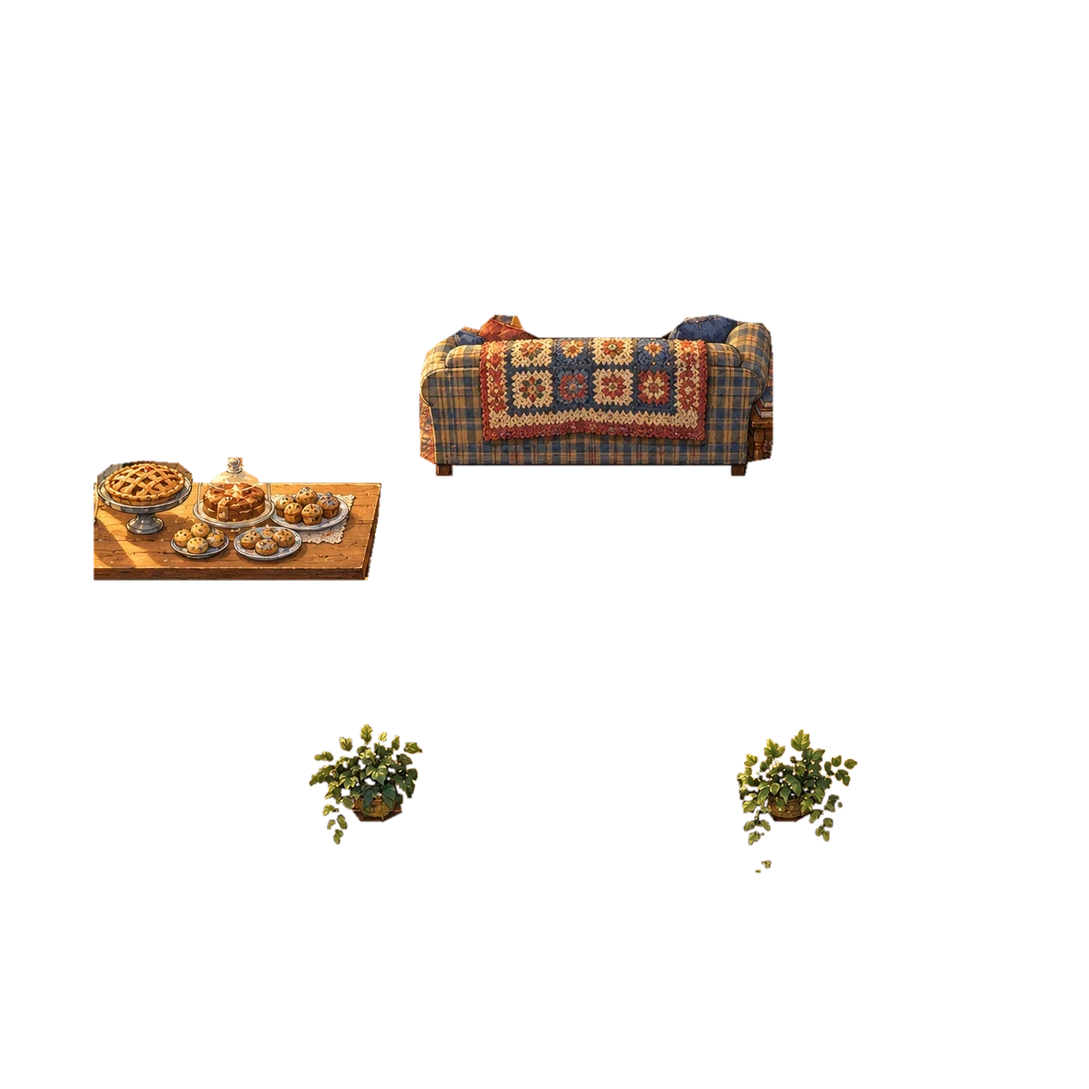
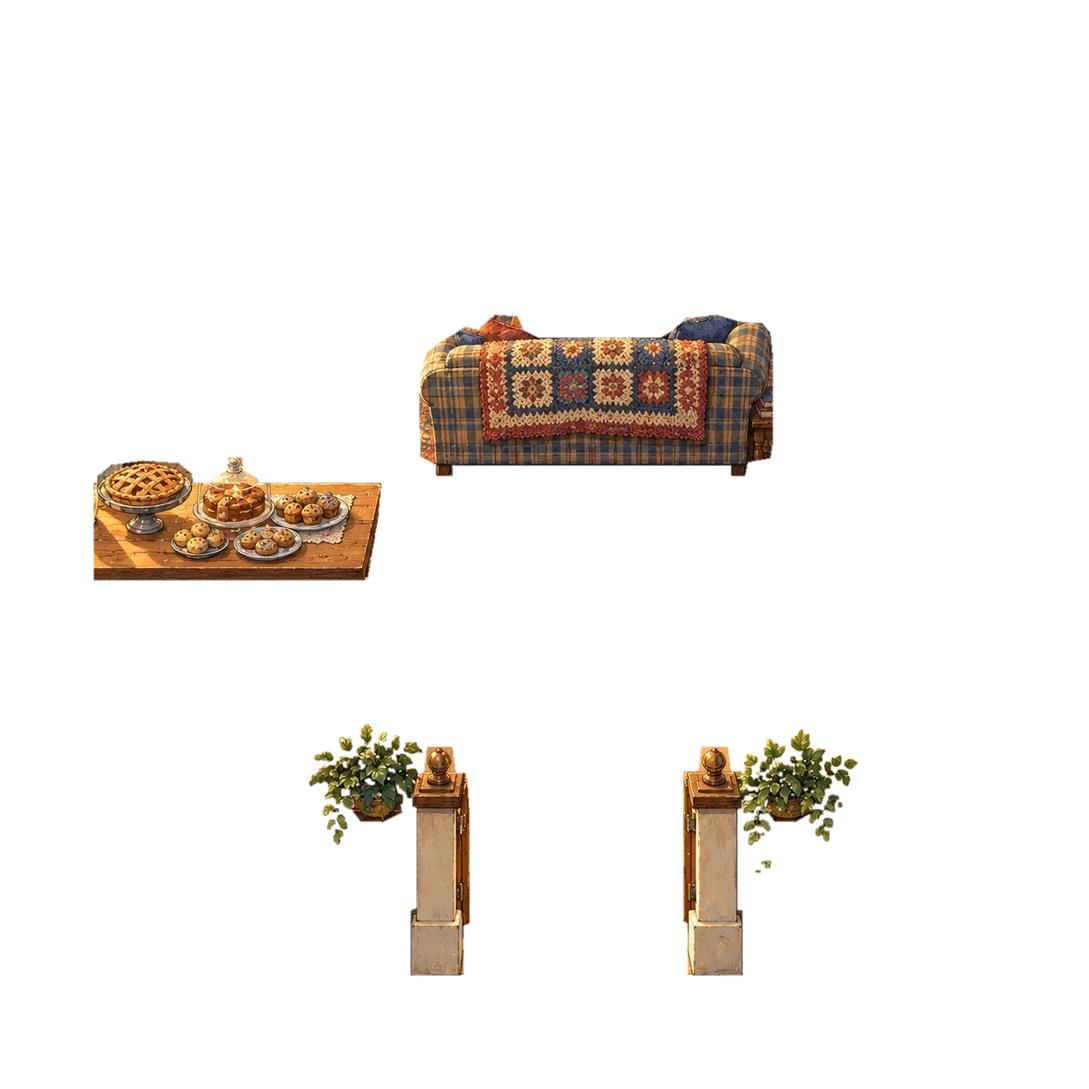
facing2: arrival facing, ch9 end staging, grands gate post cutouts
Claude-Session: https://claude.ai/code/session_01RXeukGfL8AvZy5RAvaWCo8

Changed region(s): [[0.622, 0.6842, 0.6842, 0.9019], [0.3732, 0.6842, 0.4354, 0.9019]]

diff --git a/engine/plate.js b/engine/plate.js
@@ -1,7 +1,7 @@
 'use strict';
 // engine/plate.js — Painted "plate" scenes (32-bit look). A plate replaces the tile/house/object
 // drawing for one map; the tile grid stays as the invisible logic layer (collision, doors, exits, NPCs).
-const PLATES={ town:{src:'art/town.webp?v=square6',fgSrc:'art/town-fg.webp?v=towncut1',px:64,img:null,ready:false}, row:{src:'art/row.webp?v=row4',fgSrc:'art/row-fg.webp?v=row4',px:64,img:null,ready:false}, hollow:{src:'art/hollow.webp?v=hollow5',fgSrc:'art/hollow-fg.webp?v=hollow5',px:64,img:null,ready:false}, reeds:{src:'art/reeds.webp',px:64,img:null,ready:false}, amyhouse:{src:'art/amyhouse.webp?v=20261030',px:78,img:null,ready:false,square:true,fgSrc:'art/amyhouse-fg.webp?v=amyhouse3d'}, grands:{src:'art/grands.webp?v=20261030',px:78,img:null,ready:false,square:true,fgSrc:'art/grands-fg.webp?v=grands3d'}, elliehouse:{src:'art/elliehouse.webp?v=20261030',px:78,img:null,ready:false,square:true}, sundial:{src:'art/sundial.webp',px:64,img:null,ready:false}, school:{src:'art/school.webp',px:64,img:null,ready:false}, cafetorium:{src:'art/cafetorium.webp',px:64,img:null,ready:false}, readroom:{src:'art/readroom.webp',px:64,img:null,ready:false}, stacks:{src:'art/stacks.webp',px:64,img:null,ready:false}, moonclub:{src:'art/moonclub.webp?v=moonclub1',fgSrc:'art/moonclub-fg.webp?v=moonclub1',px:64,img:null,ready:false}, dome:{src:'art/dome.webp?v=dome2',fgSrc:'art/dome-fg.webp?v=dome2',px:64,img:null,ready:false}, gatezero:{src:'art/gatezero.webp?v=airport1',fgSrc:'art/gatezero-fg.webp?v=airport1',px:64,img:null,ready:false}, library:{src:'art/library.webp?v=20261030',px:78,img:null,ready:false,square:true}, terminal:{src:'art/terminal.webp?v=airport1',fgSrc:'art/terminal-fg.webp?v=airport1',px:64,img:null,ready:false}, bakery:{src:'art/bakery.webp?v=20261030',px:78,img:null,ready:false,square:true}, greenhouse:{src:'art/greenhouse.webp?v=20261030',px:78,img:null,ready:false,square:true}, shop:{src:'art/shop.webp?v=20261030',px:78,img:null,ready:false,square:true}, observatory:{src:'art/observatory.webp?v=20261030',px:78,img:null,ready:false,square:true}, post:{src:'art/post.webp?v=20261030',px:78,img:null,ready:false,square:true}, tea:{src:'art/tea.webp?v=20261030',px:78,img:null,ready:false,square:true}, jpark:{src:'art/jpark.webp?v=jpark2',fgSrc:'art/jpark-fg.webp?v=jpark2',px:64,img:null,ready:false}, griffith:{src:'art/griffith.webp?v=griffith2',fgSrc:'art/griffith-fg.webp?v=griffith2',px:64,img:null,ready:false}, taxi:{src:'art/taxi.webp?v=20261030',px:78,img:null,ready:false,square:true}, blvd:{src:'art/blvd.webp?v=dtla12',fgSrc:'art/blvd-fg.webp?v=dtla12',px:64,img:null,ready:false} };
+const PLATES={ town:{src:'art/town.webp?v=square6',fgSrc:'art/town-fg.webp?v=towncut1',px:64,img:null,ready:false}, row:{src:'art/row.webp?v=row4',fgSrc:'art/row-fg.webp?v=row4',px:64,img:null,ready:false}, hollow:{src:'art/hollow.webp?v=hollow5',fgSrc:'art/hollow-fg.webp?v=hollow5',px:64,img:null,ready:false}, reeds:{src:'art/reeds.webp',px:64,img:null,ready:false}, amyhouse:{src:'art/amyhouse.webp?v=20261030',px:78,img:null,ready:false,square:true,fgSrc:'art/amyhouse-fg.webp?v=amyhouse3d'}, grands:{src:'art/grands.webp?v=20261030',px:78,img:null,ready:false,square:true,fgSrc:'art/grands-fg.webp?v=facing2'}, elliehouse:{src:'art/elliehouse.webp?v=20261030',px:78,img:null,ready:false,square:true}, sundial:{src:'art/sundial.webp',px:64,img:null,ready:false}, school:{src:'art/school.webp',px:64,img:null,ready:false}, cafetorium:{src:'art/cafetorium.webp',px:64,img:null,ready:false}, readroom:{src:'art/readroom.webp',px:64,img:null,ready:false}, stacks:{src:'art/stacks.webp',px:64,img:null,ready:false}, moonclub:{src:'art/moonclub.webp?v=moonclub1',fgSrc:'art/moonclub-fg.webp?v=moonclub1',px:64,img:null,ready:false}, dome:{src:'art/dome.webp?v=dome2',fgSrc:'art/dome-fg.webp?v=dome2',px:64,img:null,ready:false}, gatezero:{src:'art/gatezero.webp?v=airport1',fgSrc:'art/gatezero-fg.webp?v=airport1',px:64,img:null,ready:false}, library:{src:'art/library.webp?v=20261030',px:78,img:null,ready:false,square:true}, terminal:{src:'art/terminal.webp?v=airport1',fgSrc:'art/terminal-fg.webp?v=airport1',px:64,img:null,ready:false}, bakery:{src:'art/bakery.webp?v=20261030',px:78,img:null,ready:false,square:true}, greenhouse:{src:'art/greenhouse.webp?v=20261030',px:78,img:null,ready:false,square:true}, shop:{src:'art/shop.webp?v=20261030',px:78,img:null,ready:false,square:true}, observatory:{src:'art/observatory.webp?v=20261030',px:78,img:null,ready:false,square:true}, post:{src:'art/post.webp?v=20261030',px:78,img:null,ready:false,square:true}, tea:{src:'art/tea.webp?v=20261030',px:78,img:null,ready:false,square:true}, jpark:{src:'art/jpark.webp?v=jpark2',fgSrc:'art/jpark-fg.webp?v=jpark2',px:64,img:null,ready:false}, griffith:{src:'art/griffith.webp?v=griffith2',fgSrc:'art/griffith-fg.webp?v=griffith2',px:64,img:null,ready:false}, taxi:{src:'art/taxi.webp?v=20261030',px:78,img:null,ready:false,square:true}, blvd:{src:'art/blvd.webp?v=dtla12',fgSrc:'art/blvd-fg.webp?v=dtla12',px:64,img:null,ready:false} };
 PLATES.pier={src:'art/pier.webp?v=20261029',px:64,img:null,ready:false};
 PLATES.studio={src:'art/studio.webp?v=20261029',px:64,img:null,ready:false};
 PLATES.backlot={src:'art/backlot.webp?v=20261029',px:64,img:null,ready:false};
@@ -261,7 +261,7 @@ PLATE_BEHIND.amyhouse=[{x:606,y:224,w:310,h:58,base:280,fg:true},{x:703,y:364,w:
 // sofa with pillows and arms, and the two ivy plants on the half-wall. Counter top: the cook's aisle (row 7, feet 512) is under it, so its legs are hidden; row 6 (feet 448)
 // is behind the pie and the dome. Sofa: the aisle behind it (row 5, feet 384) and the sofa's north corner (10,4) are behind it, row 7 (feet 512) is in front. Ivies: row 10
 // (feet 704) runs behind them. Art px (64 per tile); rects are the cutout's bounding boxes.
-PLATE_BEHIND.grands=[{x:88,y:430,w:270,h:115,base:545,fg:true},{x:394,y:296,w:332,h:152,base:447,fg:true},{x:286,y:675,w:118,h:124,base:772,fg:true},{x:690,y:678,w:123,h:142,base:772,fg:true}];
+PLATE_BEHIND.grands=[{x:88,y:430,w:270,h:115,base:545,fg:true},{x:394,y:296,w:332,h:152,base:447,fg:true},{x:286,y:675,w:118,h:124,base:772,fg:true},{x:690,y:678,w:123,h:142,base:772,fg:true},{x:386,y:702,w:57,h:214,base:916,fg:true},{x:643,y:702,w:55,h:214,base:916,fg:true}];
 // Rivituso Row (tools/make_row_fg.py, `row4`): 34 pieces of the storybook painting (trees, lamps and arches and porch lanterns, roofs, props), each zone
 // clipped to its own piece outline (pts) so a zone never draws a neighbouring piece over the player.
 PLATE_BEHIND.row=[{pts:[[980,23],[985,28],[984,40],[999,43],[999,40],[1008,33],[1008,28],[1001,21],[1003,15],[1008,9],[1013,9],[1020,15],[1021,21],[1015,28],[1015,34],[1024,40],[1017,48],[1017,95],[1022,101],[1028,101],[1032,104],[1037,104],[1040,97],[1045,97],[1047,94],[1051,95],[1056,107],[1075,128],[1079,145],[1069,172],[1078,176],[1094,174],[1101,177],[1112,177],[1126,172],[1126,166],[1119,152],[1117,125],[1121,116],[1139,95],[1158,81],[1162,82],[1167,93],[1169,109],[1162,150],[1183,152],[1214,149],[1211,141],[1212,128],[1221,114],[1223,103],[1229,97],[1239,94],[1242,87],[1248,82],[1250,89],[1269,97],[1272,108],[1263,154],[1297,155],[1304,152],[1304,145],[1300,140],[1300,124],[1307,111],[1320,103],[1321,109],[1331,111],[1333,96],[1335,95],[1338,100],[1345,100],[1350,97],[1348,90],[1355,89],[1354,73],[1350,73],[1347,68],[1335,66],[1334,56],[1328,55],[1328,49],[1335,47],[1335,38],[1348,33],[1362,34],[1371,25],[1371,18],[1367,14],[1378,0],[990,0],[991,8],[983,14]],base:176,fg:true},{pts:[[9,268],[38,276],[53,274],[55,272],[61,276],[79,277],[83,273],[96,272],[96,265],[90,261],[83,249],[86,224],[93,210],[96,184],[120,158],[127,156],[135,158],[142,151],[144,154],[142,166],[147,169],[148,175],[154,175],[159,164],[171,166],[171,156],[177,150],[177,144],[169,141],[156,142],[155,135],[162,129],[176,127],[185,122],[195,124],[205,120],[219,102],[220,83],[225,76],[242,83],[265,83],[265,75],[267,73],[271,76],[287,76],[301,61],[307,48],[306,39],[300,33],[300,28],[293,25],[292,20],[280,20],[277,27],[264,27],[263,23],[271,23],[277,19],[278,13],[290,11],[291,4],[288,0],[0,0],[0,189],[6,190],[12,184],[25,190],[35,203],[38,212],[28,239],[20,256],[9,264]],base:276,fg:true},{pts:[[734,8],[729,15],[729,25],[736,32],[727,38],[727,45],[735,54],[735,141],[730,147],[730,151],[735,156],[735,223],[730,227],[733,237],[728,264],[722,270],[722,284],[750,286],[763,283],[763,272],[756,264],[749,196],[749,158],[754,151],[753,143],[757,135],[767,127],[779,122],[844,121],[980,122],[997,132],[1003,142],[1000,151],[1005,156],[1005,222],[1000,227],[1003,237],[1000,239],[998,264],[991,271],[991,283],[1000,284],[1017,264],[1019,254],[1024,250],[1021,237],[1024,229],[1019,223],[1019,156],[1022,152],[1022,144],[1019,141],[1019,52],[1026,43],[1026,36],[1019,32],[1024,25],[1022,12],[1017,7],[1005,7],[999,14],[999,25],[1005,32],[993,40],[977,28],[980,26],[978,16],[969,19],[964,13],[953,7],[938,8],[931,18],[931,28],[851,26],[825,29],[823,28],[825,19],[820,9],[802,7],[786,19],[782,16],[775,18],[774,27],[779,29],[773,35],[759,41],[749,32],[755,25],[754,12],[746,6]],base:285,fg:true},{pts:[[711,195],[688,184],[686,179],[658,162],[604,111],[604,57],[611,53],[611,40],[593,34],[593,29],[597,27],[596,18],[578,16],[573,19],[563,16],[553,20],[556,35],[544,38],[544,53],[550,55],[549,70],[539,61],[533,49],[533,34],[528,28],[519,29],[509,36],[487,41],[422,45],[349,33],[310,18],[303,25],[304,47],[285,76],[271,81],[245,81],[229,74],[222,74],[217,82],[217,98],[202,117],[183,128],[184,138],[186,142],[191,142],[192,147],[177,156],[172,165],[151,177],[148,184],[131,192],[123,193],[122,202],[131,216],[144,215],[148,223],[157,224],[162,232],[168,252],[168,285],[172,290],[172,311],[326,311],[321,265],[333,243],[348,226],[361,219],[375,219],[389,211],[475,210],[491,213],[495,220],[511,219],[531,231],[564,265],[565,288],[563,310],[582,311],[613,306],[675,302],[677,290],[672,286],[674,236],[689,213],[701,213],[711,200]],base:311,fg:true},{pts:[[1476,0],[1469,6],[1469,12],[1457,22],[1457,29],[1462,33],[1453,41],[1455,48],[1450,54],[1450,61],[1453,63],[1461,63],[1464,68],[1447,69],[1443,72],[1442,80],[1434,79],[1427,82],[1427,94],[1419,98],[1414,108],[1415,114],[1423,116],[1423,129],[1420,130],[1416,127],[1402,128],[1395,137],[1395,151],[1388,156],[1385,175],[1386,217],[1384,220],[1385,237],[1381,243],[1382,258],[1388,258],[1392,251],[1395,256],[1401,256],[1406,247],[1421,251],[1426,257],[1433,259],[1441,259],[1454,254],[1463,258],[1476,268],[1482,281],[1482,298],[1474,319],[1468,326],[1472,335],[1463,351],[1452,353],[1445,358],[1446,367],[1484,367],[1493,370],[1530,369],[1535,367],[1535,360],[1523,347],[1521,329],[1524,312],[1535,299],[1535,279],[1523,285],[1527,271],[1535,263],[1535,0]],base:369,fg:true},{pts:[[67,354],[68,380],[61,395],[61,409],[67,413],[67,431],[62,436],[62,453],[68,456],[72,471],[77,474],[86,472],[88,477],[106,478],[111,471],[122,467],[128,474],[137,474],[148,470],[152,462],[197,462],[230,472],[253,474],[265,468],[311,469],[321,471],[325,475],[344,476],[355,455],[358,460],[365,460],[372,454],[374,443],[380,436],[381,423],[376,410],[378,368],[371,365],[356,367],[352,382],[345,383],[335,377],[325,380],[321,385],[321,416],[314,419],[306,417],[297,426],[291,424],[293,420],[292,409],[298,401],[298,396],[292,389],[291,356],[220,356],[219,389],[216,393],[201,390],[197,370],[197,347],[195,342],[190,339],[151,341],[175,325],[175,286],[171,283],[158,284],[157,294],[151,298],[148,292],[132,292],[130,294],[130,306],[121,312],[111,308],[101,311],[98,314],[98,329],[83,349],[74,348]],base:477,fg:true},{pts:[[665,410],[664,419],[672,419],[674,427],[670,449],[661,457],[660,470],[664,474],[671,474],[695,464],[705,464],[707,456],[706,449],[702,445],[696,445],[680,456],[675,451],[681,423],[693,423],[695,416]],base:481,fg:true},{pts:[[497,355],[496,428],[529,427],[537,436],[533,437],[524,451],[524,469],[533,481],[546,482],[551,479],[560,467],[566,468],[570,464],[571,457],[576,451],[576,467],[583,477],[590,482],[602,481],[607,475],[611,463],[623,454],[627,464],[634,470],[647,470],[652,467],[657,456],[657,445],[653,437],[646,430],[637,427],[636,416],[638,409],[626,411],[628,420],[612,426],[610,422],[613,420],[613,415],[599,415],[597,408],[591,408],[589,415],[584,419],[575,414],[571,408],[571,356],[569,354]],base:481,fg:true},{pts:[[878,491],[878,501],[875,503],[875,509],[864,517],[864,524],[868,526],[869,549],[876,552],[878,557],[883,557],[892,549],[892,535],[898,518],[886,509],[883,491]],base:556,fg:true},{pts:[[1038,502],[1035,516],[1026,524],[1026,530],[1031,542],[1031,552],[1038,559],[1044,559],[1051,552],[1051,540],[1055,524],[1047,518],[1044,502]],base:558,fg:true},{pts:[[1189,510],[1187,518],[1176,526],[1176,532],[1180,536],[1182,556],[1189,563],[1195,563],[1202,556],[1207,526],[1199,522],[1194,510]],base:562,fg:true},{pts:[[420,496],[417,494],[402,492],[314,521],[314,536],[325,539],[327,543],[325,550],[317,552],[317,560],[338,567],[349,565],[349,556],[339,551],[339,538],[342,535],[394,517],[397,521],[389,525],[389,532],[409,538],[420,537],[420,529],[409,524],[409,513],[420,508]],base:566,fg:true},{pts:[[1374,517],[1370,517],[1367,524],[1362,573],[1358,589],[1357,577],[1362,542],[1362,528],[1358,528],[1353,564],[1344,605],[1343,620],[1345,623],[1352,621],[1354,611],[1357,619],[1364,619],[1370,612],[1372,615],[1380,615],[1382,606],[1391,611],[1401,611],[1433,603],[1434,578],[1432,576],[1420,572],[1413,566],[1395,569],[1391,576],[1380,576],[1380,542],[1375,542],[1372,578],[1370,578]],base:621,fg:true},{pts:[[1273,576],[1264,566],[1256,567],[1251,559],[1241,559],[1237,563],[1228,564],[1216,574],[1215,581],[1217,585],[1212,590],[1212,597],[1222,597],[1221,606],[1209,597],[1208,589],[1198,576],[1185,576],[1175,589],[1174,598],[1164,604],[1169,646],[1178,652],[1204,652],[1214,646],[1217,631],[1224,649],[1232,649],[1236,653],[1263,651],[1267,646],[1273,619],[1273,610],[1267,604],[1267,600],[1277,597]],base:652,fg:true},{pts:[[874,558],[883,626],[881,631],[874,631],[874,637],[877,644],[890,653],[897,655],[910,653],[910,646],[905,642],[908,639],[912,639],[929,648],[942,649],[947,647],[949,640],[942,635],[940,624],[945,614],[953,615],[961,612],[963,630],[961,637],[956,641],[957,647],[976,649],[995,640],[997,642],[992,647],[993,654],[997,657],[1012,655],[1022,649],[1033,638],[1033,632],[1024,628],[1028,598],[1029,603],[1040,610],[1037,618],[1037,630],[1042,641],[1042,647],[1049,652],[1068,652],[1073,649],[1073,644],[1080,630],[1079,611],[1087,604],[1087,599],[1083,593],[1083,583],[1080,578],[1072,578],[1067,569],[1051,569],[1046,578],[1037,579],[1034,581],[1035,592],[1029,598],[1028,593],[1035,560],[1032,557],[1027,557],[1022,562],[1014,557],[1001,558],[998,555],[990,555],[986,581],[983,590],[978,584],[976,574],[965,574],[960,566],[954,565],[943,567],[939,574],[931,574],[926,579],[925,585],[923,557],[919,553],[915,553],[911,558],[893,557],[886,560],[881,557]],base:655,fg:true},{pts:[[1453,0],[1374,0],[1368,4],[1365,11],[1365,18],[1368,21],[1359,32],[1345,30],[1338,34],[1337,42],[1331,49],[1331,56],[1339,69],[1354,73],[1359,87],[1353,95],[1341,98],[1338,106],[1339,116],[1324,117],[1323,129],[1307,131],[1303,135],[1303,156],[1311,161],[1312,179],[1309,211],[1294,198],[1279,192],[1263,176],[1253,162],[1253,152],[1250,145],[1241,138],[1230,138],[1218,145],[1181,155],[1148,158],[1137,163],[1135,170],[1120,186],[1082,189],[1042,183],[1039,186],[1038,193],[1040,211],[1031,226],[1028,237],[1017,251],[1017,257],[997,281],[979,285],[974,292],[957,299],[945,300],[944,308],[952,326],[961,332],[971,332],[950,347],[929,354],[922,362],[908,367],[892,368],[888,375],[862,377],[856,386],[848,387],[844,393],[825,397],[825,410],[830,415],[834,426],[838,429],[810,445],[803,453],[775,465],[777,482],[784,491],[797,494],[804,490],[809,501],[814,504],[813,526],[817,530],[821,538],[818,560],[813,579],[814,601],[807,607],[807,618],[810,621],[810,652],[804,658],[806,669],[837,672],[862,669],[861,615],[863,613],[863,601],[857,598],[857,579],[850,550],[850,536],[856,525],[852,511],[866,496],[889,485],[1001,487],[1006,489],[1027,487],[1089,489],[1267,488],[1289,508],[1287,530],[1293,537],[1293,549],[1286,579],[1287,601],[1280,606],[1280,615],[1284,621],[1283,664],[1294,664],[1296,652],[1301,649],[1305,664],[1311,664],[1314,667],[1314,673],[1328,673],[1338,667],[1338,649],[1333,646],[1332,638],[1333,600],[1330,598],[1330,578],[1325,556],[1325,536],[1330,526],[1330,512],[1337,498],[1346,496],[1351,484],[1358,483],[1384,456],[1407,444],[1432,441],[1456,448],[1470,455],[1479,455],[1481,447],[1489,438],[1493,429],[1503,421],[1507,410],[1506,404],[1486,397],[1480,392],[1466,386],[1446,368],[1449,359],[1468,352],[1474,339],[1474,329],[1452,321],[1446,314],[1428,305],[1413,283],[1396,285],[1386,280],[1385,245],[1387,240],[1386,224],[1388,220],[1388,176],[1391,159],[1398,155],[1398,135],[1394,131],[1377,130],[1374,128],[1374,116],[1359,115],[1365,111],[1368,104],[1384,101],[1393,93],[1392,77],[1381,70],[1382,60],[1389,57],[1394,52],[1402,55],[1423,52],[1426,45],[1430,41],[1429,25],[1434,20],[1442,19],[1452,13]],base:672,fg:true},{pts:[[93,775],[86,775],[64,788],[64,793],[93,790]],base:791,fg:true},{pts:[[107,543],[89,543],[81,546],[70,558],[68,570],[61,574],[61,585],[67,590],[62,594],[62,599],[67,604],[67,666],[62,669],[62,676],[66,681],[60,687],[60,694],[64,698],[64,713],[80,708],[81,698],[86,693],[86,687],[79,680],[83,675],[83,671],[79,666],[79,604],[83,600],[83,594],[79,590],[86,585],[87,577],[79,570],[82,563],[90,556],[95,556],[94,563],[96,565],[102,564],[103,555],[110,560],[104,565],[106,578],[91,589],[91,594],[96,598],[98,608],[98,627],[108,631],[113,639],[118,639],[123,631],[132,626],[132,608],[135,598],[140,594],[140,589],[123,576],[127,572],[127,566],[120,560],[117,550]],base:791,fg:true},{pts:[[1398,755],[1402,808],[1409,808],[1411,798],[1406,757]],base:811,fg:true},{pts:[[1454,610],[1440,610],[1438,613],[1432,613],[1432,619],[1426,621],[1423,631],[1425,644],[1420,644],[1418,638],[1413,638],[1411,634],[1398,634],[1394,639],[1387,641],[1381,653],[1381,668],[1386,671],[1386,678],[1395,682],[1409,683],[1404,687],[1400,685],[1389,686],[1385,691],[1386,702],[1393,702],[1401,698],[1400,710],[1412,714],[1399,723],[1387,725],[1388,735],[1412,739],[1428,736],[1432,740],[1430,749],[1426,755],[1418,750],[1412,750],[1408,757],[1408,762],[1418,771],[1413,777],[1413,800],[1418,800],[1421,796],[1422,787],[1426,784],[1432,812],[1443,811],[1457,803],[1459,784],[1466,784],[1467,778],[1474,771],[1480,776],[1493,776],[1494,760],[1504,751],[1503,743],[1506,742],[1507,730],[1511,728],[1510,715],[1518,716],[1517,702],[1510,692],[1515,691],[1520,683],[1520,666],[1515,662],[1515,658],[1507,655],[1510,646],[1508,631],[1493,619],[1477,621],[1473,625],[1467,619],[1464,612],[1456,613]],base:811,fg:true},{pts:[[143,725],[123,723],[118,715],[116,698],[109,695],[97,696],[32,726],[14,728],[13,740],[20,746],[21,756],[25,762],[23,783],[25,797],[28,800],[27,808],[43,809],[45,805],[53,812],[59,812],[59,809],[64,805],[67,791],[72,787],[107,769],[116,771],[121,762],[128,762],[130,768],[142,771],[142,751],[148,747],[148,737],[143,734]],base:811,fg:true},{pts:[[1312,762],[1306,762],[1301,768],[1298,768],[1299,784],[1313,783]],base:830,fg:true},{pts:[[1371,687],[1364,692],[1355,707],[1344,710],[1335,716],[1338,725],[1359,728],[1361,732],[1337,739],[1323,735],[1317,743],[1317,754],[1320,754],[1327,761],[1332,761],[1337,756],[1340,761],[1357,759],[1352,784],[1360,790],[1370,793],[1370,829],[1385,828],[1385,794],[1401,784],[1395,757],[1413,760],[1414,754],[1420,759],[1429,757],[1435,750],[1435,739],[1432,733],[1420,736],[1392,733],[1391,727],[1407,723],[1413,719],[1413,713],[1392,705],[1384,691]],base:830,fg:true},{pts:[[1128,727],[1128,733],[1133,733],[1139,727],[1142,728],[1139,751],[1144,753],[1146,750],[1147,760],[1139,761],[1140,770],[1160,770],[1167,763],[1167,756],[1155,756],[1151,751],[1147,751],[1147,748],[1160,748],[1165,737],[1169,741],[1170,756],[1177,759],[1181,763],[1185,763],[1185,760],[1192,753],[1204,750],[1204,733],[1210,730],[1214,721],[1221,721],[1219,748],[1224,748],[1228,751],[1219,759],[1218,775],[1225,776],[1229,771],[1233,771],[1236,721],[1238,730],[1243,730],[1246,725],[1251,727],[1252,733],[1246,734],[1250,749],[1256,749],[1256,744],[1265,736],[1265,732],[1262,732],[1259,728],[1260,721],[1267,721],[1270,733],[1277,733],[1283,737],[1292,735],[1294,729],[1296,733],[1310,733],[1310,714],[1318,713],[1318,707],[1309,702],[1307,674],[1317,672],[1317,664],[1307,660],[1305,647],[1294,647],[1291,661],[1272,662],[1263,659],[1256,662],[1242,662],[1238,660],[1238,649],[1236,647],[1228,647],[1225,649],[1223,661],[1171,660],[1170,647],[1158,646],[1154,659],[1143,660],[1143,669],[1153,672],[1154,675],[1140,679],[1140,688],[1148,688],[1151,692],[1136,702],[1134,713],[1141,712],[1142,714],[1135,716]],base:830,fg:true},{pts:[[809,694],[810,754],[817,759],[816,769],[838,782],[852,785],[858,791],[862,805],[892,815],[902,824],[911,827],[915,834],[926,841],[943,845],[946,850],[978,855],[984,843],[988,841],[994,842],[1001,849],[1003,853],[998,866],[1003,869],[1015,868],[1022,861],[1080,861],[1082,858],[1083,751],[1080,747],[1065,747],[1042,755],[1022,771],[1021,760],[1001,755],[988,763],[987,777],[980,776],[976,778],[972,771],[967,771],[963,776],[959,767],[954,767],[951,771],[949,769],[939,770],[927,763],[927,749],[917,742],[903,747],[899,757],[883,748],[881,732],[869,728],[858,735],[852,730],[852,716],[848,712],[834,712],[834,695],[824,689]],base:868,fg:true},{pts:[[175,784],[175,796],[184,798],[195,797],[198,804],[193,808],[193,815],[198,822],[205,821],[210,812],[345,814],[346,816],[337,825],[310,844],[312,862],[318,865],[334,863],[341,869],[353,869],[359,864],[367,871],[378,871],[385,866],[394,873],[405,872],[410,866],[419,873],[428,873],[436,868],[444,873],[455,873],[462,868],[467,872],[480,873],[488,868],[494,872],[504,872],[512,866],[519,871],[530,871],[537,864],[543,869],[552,870],[562,863],[567,866],[577,866],[584,859],[596,863],[606,853],[606,841],[590,827],[584,812],[687,811],[699,812],[702,822],[709,822],[722,809],[723,803],[732,794],[732,781],[708,763],[687,734],[687,703],[694,700],[689,673],[687,671],[677,673],[661,673],[643,635],[643,620],[628,615],[630,607],[633,605],[633,598],[627,592],[621,592],[616,598],[617,608],[612,613],[604,611],[599,606],[597,598],[590,598],[589,608],[585,612],[577,612],[572,607],[572,600],[564,598],[562,610],[553,613],[542,605],[548,601],[546,594],[533,591],[535,581],[532,576],[523,573],[516,577],[508,572],[491,572],[487,565],[477,567],[474,558],[462,556],[454,544],[449,544],[440,556],[429,557],[427,565],[420,570],[395,572],[390,578],[374,579],[371,583],[371,593],[356,597],[355,606],[359,610],[348,618],[339,613],[337,603],[328,605],[327,615],[318,618],[312,613],[312,604],[308,600],[304,600],[298,606],[299,614],[286,620],[281,615],[283,607],[277,601],[272,601],[266,607],[269,624],[256,630],[257,645],[245,674],[217,674],[212,692],[212,703],[218,706],[219,713],[218,740],[212,751],[196,770]],base:872,fg:true},{pts:[[1527,728],[1517,723],[1506,727],[1503,732],[1503,749],[1493,754],[1490,773],[1486,775],[1479,770],[1473,770],[1464,775],[1463,793],[1447,805],[1435,811],[1434,801],[1422,794],[1418,794],[1407,801],[1406,817],[1393,824],[1364,828],[1357,827],[1358,810],[1346,802],[1341,802],[1328,810],[1327,828],[1292,828],[1285,825],[1275,828],[1250,824],[1245,822],[1245,802],[1231,795],[1226,795],[1212,807],[1214,824],[1211,827],[1210,816],[1198,797],[1176,775],[1156,767],[1142,767],[1133,770],[1129,790],[1130,891],[1190,918],[1203,920],[1225,913],[1233,913],[1252,898],[1301,906],[1316,906],[1325,903],[1340,905],[1351,904],[1360,897],[1372,897],[1393,879],[1405,877],[1429,883],[1463,857],[1486,849],[1494,829],[1503,827],[1507,822],[1514,800],[1521,796],[1527,787]],base:919,fg:true},{pts:[[197,794],[177,794],[169,804],[168,814],[179,815],[183,812],[190,818],[179,823],[172,839],[170,838],[170,831],[165,827],[155,828],[147,835],[148,848],[155,848],[156,851],[166,850],[152,859],[148,877],[144,866],[137,864],[127,864],[120,876],[120,883],[127,884],[128,899],[136,897],[137,900],[128,911],[113,909],[111,914],[106,920],[106,925],[111,927],[110,934],[114,944],[129,943],[132,937],[137,940],[131,947],[130,953],[124,953],[118,958],[118,964],[123,965],[123,980],[125,984],[130,984],[135,979],[137,984],[144,985],[144,991],[148,994],[144,999],[144,1006],[150,1009],[141,1013],[136,1008],[127,1007],[125,1015],[129,1018],[118,1025],[118,1033],[125,1032],[134,1039],[134,1053],[141,1050],[144,1053],[137,1057],[138,1069],[147,1070],[148,1073],[147,1079],[135,1086],[135,1090],[158,1091],[169,1087],[169,1080],[164,1074],[165,1063],[172,1057],[172,1048],[183,1040],[183,1035],[192,1036],[192,1026],[189,1016],[196,1014],[201,995],[201,986],[185,987],[184,985],[192,981],[193,973],[197,978],[203,978],[204,963],[199,958],[206,957],[210,947],[217,947],[216,937],[218,927],[211,920],[209,909],[215,907],[218,902],[218,892],[213,880],[219,878],[217,862],[212,859],[212,853],[206,848],[206,844],[218,845],[217,832],[222,829],[222,824],[211,816],[201,818],[196,811],[201,808]],base:1093,fg:true},{pts:[[1158,1014],[1158,1021],[1154,1025],[1154,1033],[1160,1036],[1161,1054],[1165,1055],[1165,1060],[1169,1063],[1180,1061],[1189,1067],[1205,1062],[1237,1061],[1259,1070],[1260,1079],[1257,1084],[1257,1094],[1263,1096],[1282,1090],[1289,1083],[1292,1083],[1298,1075],[1296,1060],[1298,1031],[1300,1022],[1306,1019],[1305,1006],[1297,1005],[1290,1008],[1204,982],[1197,982],[1196,978],[1190,978],[1183,991],[1184,1004],[1181,1007],[1170,1008],[1163,1014]],base:1095,fg:true},{pts:[[1399,875],[1389,877],[1380,884],[1375,892],[1374,902],[1367,906],[1367,912],[1373,918],[1360,931],[1354,933],[1354,940],[1359,944],[1361,951],[1362,974],[1372,979],[1379,988],[1384,988],[1388,980],[1400,974],[1400,958],[1404,945],[1408,940],[1408,933],[1400,930],[1388,918],[1394,913],[1394,905],[1387,898],[1395,889],[1398,890],[1399,898],[1406,898],[1408,887],[1420,897],[1423,907],[1416,911],[1415,923],[1422,927],[1418,936],[1418,943],[1423,947],[1423,1021],[1419,1025],[1418,1033],[1423,1039],[1415,1047],[1419,1056],[1415,1083],[1407,1091],[1407,1097],[1413,1097],[1416,1101],[1442,1100],[1445,1097],[1445,1086],[1440,1081],[1442,1069],[1446,1067],[1445,1055],[1447,1047],[1440,1041],[1441,1032],[1436,1032],[1435,1027],[1439,1023],[1438,957],[1439,947],[1443,943],[1443,934],[1439,931],[1439,927],[1446,921],[1446,913],[1436,907],[1434,895],[1422,879],[1414,876]],base:1110,fg:true},{pts:[[203,1031],[196,1031],[191,1034],[182,1032],[182,1036],[171,1042],[170,1054],[163,1060],[162,1077],[166,1083],[164,1090],[168,1098],[169,1114],[175,1130],[186,1135],[199,1130],[205,1123],[212,1103],[212,1083],[220,1072],[216,1057],[211,1056],[210,1052],[203,1047]],base:1134,fg:true},{pts:[[531,1028],[530,1033],[525,1034],[524,1042],[516,1041],[509,1046],[507,1052],[509,1064],[505,1068],[509,1083],[521,1082],[524,1086],[524,1104],[532,1116],[524,1122],[523,1140],[525,1141],[525,1148],[553,1148],[553,1121],[549,1118],[555,1109],[556,1096],[571,1093],[572,1054],[566,1042],[562,1039],[553,1040],[550,1033],[543,1028]],base:1147,fg:true},{pts:[[616,981],[600,981],[596,985],[576,984],[570,991],[573,1006],[583,1015],[582,1025],[587,1031],[587,1038],[594,1040],[597,1045],[597,1091],[594,1097],[587,1100],[587,1106],[594,1107],[596,1111],[592,1122],[582,1130],[580,1138],[575,1141],[577,1150],[621,1147],[624,1140],[606,1122],[606,1111],[616,1097],[625,1100],[626,1103],[634,1103],[646,1095],[633,1022],[638,1014],[637,995],[631,995],[628,991],[624,991]],base:1149,fg:true},{pts:[[399,1064],[394,1060],[387,1059],[381,1050],[356,1040],[351,1040],[341,1050],[340,1038],[335,1033],[334,1027],[314,1027],[303,1033],[301,1036],[295,1036],[297,1052],[305,1055],[304,1067],[290,1068],[286,1054],[277,1046],[258,1046],[247,1059],[247,1075],[259,1106],[260,1135],[258,1151],[273,1150],[274,1157],[290,1157],[293,1161],[322,1157],[334,1158],[338,1155],[338,1150],[334,1147],[328,1148],[326,1142],[317,1135],[317,1125],[328,1124],[328,1114],[331,1111],[337,1111],[341,1117],[353,1117],[359,1123],[359,1135],[376,1135],[380,1129],[388,1127],[388,1121],[383,1121],[382,1116],[390,1104],[390,1088],[394,1082],[393,1073],[399,1072]],base:1159,fg:true},{pts:[[701,841],[695,849],[695,858],[702,869],[693,875],[693,882],[701,892],[701,1005],[695,1011],[695,1019],[701,1025],[700,1254],[693,1260],[693,1267],[699,1274],[691,1280],[692,1300],[689,1318],[679,1331],[679,1346],[696,1353],[721,1353],[739,1346],[739,1332],[730,1322],[726,1294],[728,1281],[720,1273],[726,1268],[726,1260],[720,1254],[719,1038],[720,1023],[725,1019],[722,1004],[728,993],[743,979],[757,974],[929,973],[949,974],[961,980],[972,991],[979,1007],[976,1016],[981,1023],[980,1253],[974,1259],[974,1267],[980,1273],[972,1280],[971,1318],[961,1328],[960,1345],[969,1351],[981,1353],[1004,1353],[1020,1347],[1020,1329],[1010,1317],[1008,1280],[1001,1274],[1006,1267],[1006,1260],[1000,1253],[998,1068],[999,1023],[1004,1020],[1004,1009],[998,1004],[999,891],[1006,883],[1006,873],[999,870],[998,866],[1005,857],[1004,845],[994,838],[985,838],[978,843],[976,859],[983,868],[973,873],[972,882],[965,880],[953,872],[958,869],[956,859],[946,859],[944,862],[933,851],[925,848],[913,848],[904,853],[902,872],[855,869],[800,872],[797,853],[789,848],[777,848],[768,851],[757,862],[752,858],[745,859],[743,870],[748,872],[740,879],[729,883],[727,873],[718,868],[726,858],[723,844],[715,838]],base:1352,fg:true},{pts:[[1516,932],[1502,934],[1496,946],[1481,943],[1464,959],[1464,967],[1467,970],[1452,967],[1448,979],[1438,986],[1440,995],[1436,1000],[1436,1007],[1440,1016],[1433,1023],[1433,1034],[1441,1034],[1445,1043],[1454,1042],[1449,1048],[1449,1053],[1453,1056],[1453,1061],[1457,1063],[1456,1066],[1452,1063],[1440,1066],[1438,1086],[1442,1089],[1442,1094],[1439,1097],[1434,1095],[1427,1097],[1408,1095],[1406,1098],[1396,1100],[1396,1107],[1388,1114],[1388,1120],[1394,1122],[1396,1132],[1393,1134],[1391,1128],[1387,1127],[1374,1128],[1373,1135],[1358,1130],[1352,1137],[1350,1150],[1343,1151],[1341,1158],[1338,1162],[1338,1166],[1346,1170],[1340,1174],[1340,1188],[1343,1190],[1354,1189],[1352,1193],[1354,1206],[1371,1208],[1377,1203],[1375,1212],[1366,1212],[1351,1226],[1352,1232],[1359,1233],[1348,1234],[1347,1238],[1339,1242],[1341,1249],[1335,1257],[1335,1264],[1343,1266],[1343,1274],[1361,1274],[1367,1267],[1372,1274],[1378,1274],[1381,1271],[1386,1271],[1388,1266],[1392,1274],[1400,1277],[1407,1270],[1407,1260],[1409,1264],[1422,1264],[1426,1260],[1440,1273],[1460,1281],[1468,1291],[1475,1311],[1468,1341],[1459,1354],[1445,1363],[1435,1374],[1413,1380],[1388,1407],[1535,1407],[1535,1355],[1529,1336],[1529,1324],[1535,1306],[1535,1265],[1532,1265],[1529,1277],[1520,1283],[1510,1257],[1517,1247],[1521,1251],[1522,1258],[1535,1257],[1535,946],[1530,937],[1524,937]],base:1408,fg:true},{pts:[[0,970],[0,1174],[4,1178],[11,1178],[11,1186],[13,1189],[0,1197],[0,1353],[21,1375],[12,1386],[2,1407],[162,1407],[174,1396],[176,1406],[186,1404],[189,1407],[348,1407],[347,1392],[338,1386],[344,1385],[345,1381],[353,1382],[355,1378],[360,1376],[360,1368],[355,1365],[358,1355],[354,1352],[353,1345],[345,1341],[338,1342],[335,1340],[338,1339],[338,1333],[328,1327],[314,1326],[310,1333],[303,1322],[304,1311],[285,1307],[284,1299],[267,1279],[254,1278],[250,1280],[246,1270],[237,1266],[219,1268],[217,1266],[223,1264],[223,1259],[215,1253],[215,1249],[204,1242],[193,1243],[192,1233],[199,1231],[197,1213],[181,1208],[182,1204],[189,1204],[189,1197],[181,1192],[179,1185],[171,1185],[168,1189],[166,1182],[152,1183],[149,1189],[147,1186],[148,1181],[143,1175],[149,1172],[149,1168],[142,1162],[142,1156],[136,1155],[131,1150],[121,1151],[117,1155],[115,1141],[108,1136],[96,1137],[91,1147],[86,1143],[84,1138],[73,1141],[68,1156],[54,1152],[49,1158],[47,1157],[45,1141],[56,1143],[59,1140],[67,1141],[67,1131],[77,1130],[76,1116],[70,1111],[76,1108],[76,1101],[74,1097],[60,1094],[63,1090],[63,1086],[59,1082],[47,1084],[46,1080],[40,1080],[32,1090],[29,1089],[27,1064],[38,1074],[42,1074],[46,1070],[46,1057],[55,1055],[53,1043],[43,1038],[45,1035],[50,1035],[53,1025],[48,1019],[41,1016],[42,1006],[38,1002],[22,1001],[15,1008],[13,1007],[12,1000],[20,997],[20,988],[12,981],[14,979],[12,971]],base:1408,fg:true},{pts:[[1445,1304],[1441,1301],[1434,1301],[1433,1304],[1430,1301],[1419,1301],[1411,1304],[1407,1308],[1396,1306],[1388,1310],[1387,1327],[1380,1333],[1362,1335],[1361,1324],[1353,1318],[1347,1318],[1340,1322],[1339,1339],[1303,1342],[1301,1336],[1289,1333],[1280,1335],[1279,1346],[1230,1352],[1228,1351],[1228,1338],[1217,1328],[1212,1328],[1201,1336],[1201,1355],[1146,1366],[1139,1363],[1137,1349],[1128,1341],[1122,1341],[1112,1351],[1113,1402],[1110,1407],[1140,1407],[1139,1397],[1147,1392],[1148,1395],[1156,1395],[1157,1393],[1162,1399],[1192,1393],[1199,1397],[1202,1407],[1230,1407],[1233,1396],[1246,1380],[1249,1386],[1253,1386],[1265,1379],[1279,1376],[1280,1389],[1298,1389],[1303,1386],[1303,1376],[1313,1373],[1316,1367],[1319,1376],[1340,1370],[1341,1382],[1361,1381],[1361,1366],[1370,1360],[1379,1362],[1386,1359],[1391,1372],[1409,1370],[1409,1362],[1419,1359],[1421,1352],[1430,1354],[1433,1359],[1440,1359],[1443,1355]],base:1408,fg:true},{pts:[[285,1346],[285,1352],[291,1355],[291,1361],[304,1369],[319,1368],[320,1373],[329,1372],[329,1365],[332,1362],[342,1370],[342,1381],[346,1385],[354,1383],[355,1380],[359,1383],[367,1382],[373,1385],[385,1372],[386,1376],[394,1375],[396,1378],[396,1386],[402,1390],[402,1394],[415,1394],[416,1389],[426,1380],[435,1380],[440,1382],[440,1389],[446,1395],[456,1396],[465,1394],[470,1389],[470,1381],[478,1379],[478,1369],[497,1370],[507,1375],[511,1375],[515,1372],[521,1375],[521,1389],[517,1399],[519,1407],[584,1407],[586,1402],[586,1348],[576,1338],[571,1338],[567,1341],[557,1339],[555,1345],[550,1345],[549,1339],[539,1341],[533,1336],[529,1336],[521,1342],[518,1356],[491,1358],[470,1355],[468,1348],[450,1347],[448,1354],[427,1353],[420,1351],[420,1334],[409,1328],[405,1328],[394,1335],[393,1346],[381,1346],[368,1342],[372,1324],[367,1320],[346,1328],[340,1328],[338,1325],[331,1327],[322,1322],[320,1313],[311,1311],[305,1312],[305,1317],[299,1320],[298,1328],[290,1339],[290,1344]],base:1408,fg:true}];

diff --git a/index.html b/index.html
@@ -1371,7 +1371,7 @@ document.addEventListener('click',function(e){var n=e.target.closest&&e.target.c
 <script src="data/battle-sprites.js?v=foepaint2"></script>
 <script src="data/ko-sprites.js"></script>
 <script src="engine/battle.js"></script>
-<script src="engine/battle-draw.js?v=space1"></script>
+<script src="engine/battle-draw.js?v=facing2"></script>
 <script src="engine/recruit-fx.js"></script>
 <script src="engine/stage.js"></script>
 <script src="engine/prop-art.js?v=bubble2"></script>
@@ -1602,7 +1602,7 @@ document.addEventListener('click',function(e){var n=e.target.closest&&e.target.c
 <script src="engine/club-render.js"></script>
 <script src="engine/terminal-render.js"></script>
 <script src="engine/infinity-render.js"></script>
-<script src="engine/plate.js?v=airport1"></script>
+<script src="engine/plate.js?v=facing2"></script>
 <script src="data/airport-behind.js?v=airport1"></script>
 <script src="engine/draw.js?v=mirrors1"></script>
 <script src="engine/intro.js?v=bubble2"></script>
@@ -1610,12 +1610,12 @@ document.addEventListener('click',function(e){var n=e.target.closest&&e.target.c
 <script src="engine/flight-art.js?v=flight11"></script>
 <script src="engine/travel.js?v=deedeetom1"></script>
 <script src="engine/nara.js?v=bubble2"></script>
-<script src="engine/story.js?v=facing1"></script>
+<script src="engine/story.js?v=facing2"></script>
 <script src="engine/boss-finale.js?v=bossend4"></script>
 <script src="engine/bench.js"></script>
 <script src="engine/tom-gone.js"></script>
 <script src="engine/benchcall.js"></script>
-<script src="data/scenes.js?v=facing1"></script>
+<script src="data/scenes.js?v=facing2"></script>
 <script src="data/ellie-quests.js?v=ellie1"></script>
 <script src="data/scenes-p2.js"></script>
 <script src="data/ch12-battle.js"></script>
@@ -1659,7 +1659,7 @@ document.addEventListener('click',function(e){var n=e.target.closest&&e.target.c
 <script src="data/npc-emotion-moods.js?v=deedeetom1"></script>
 <script src="engine/emotions.js?v=boppy2"></script><!-- mood faces and poses in story dialogue (batch 0: chapter 1) -->
 <script src="engine/tapwalk.js?v=space1"></script><!-- tap to walk -->
-<script src="engine/main.js?v=heads5"></script>
+<script src="engine/main.js?v=facing2"></script>
 <script src="engine/music.js"></script>
 <script src="data/songs.js"></script>
 <script src="engine/music-clips.js?v=music2"></script>

diff --git a/engine/story.js b/engine/story.js
@@ -744,6 +744,27 @@ function storyTriggers() {
   }
   return false;
 }
+// Arrival facing (facing2, Tom 2026-11-12): when a map change lands Tom where a scene is about to start, the people who talk in that scene
+// already face him as the room fades in (before, posed people faced their pose and wanderers looked anywhere until the first line).
+// A posed NPC keeps `arriveFace` (read by updateNPCs in engine/battle-draw.js) until the scene ends; a wanderer just waits.
+function storyArriveFace() {
+  if(STORY.mode!=='full'||typeof TRIGGERS==='undefined'||typeof SCENES==='undefined') return;
+  storyWorld();
+  const t=TRIGGERS.find(t=>(!t.map||t.map===currentMap.id)&&!(t.at&&(player.x<t.at[0]||player.y<t.at[1]||player.x>t.at[2]||player.y>t.at[3]))&&storyMatch(t.when||{}));
+  if(!t||typeof t.scene!=='string') return;
+  let list=SCENES[t.scene]; if(typeof list==='function') { try { list=list(); } catch(e) { return; } }
+  if(!Array.isArray(list)) return;
+  const names=new Set(); for(const st of list) if(st&&typeof st.talk==='string') names.add(st.talk);
+  for(const n of currentMap.npcs) {
+    if(!names.has(n.name)||n.hidden||n.monster) continue;
+    const dx=player.x-n.x, dy=player.y-n.y; if(!dx&&!dy) continue;
+    const dir=Math.abs(dy)>=Math.abs(dx)?(dy>0?'down':'up'):(dx>0?'right':'left');
+    n.facing=dir; n.path=[]; n.move=null;
+    if(n.still) n.arriveFace=dir; else n.idle=Math.max(n.idle||0,4);
+  }
+}
+const LE_switchMap_story=switchMap;
+switchMap=function(portal) { LE_switchMap_story(portal); storyArriveFace(); };
 // Map rules for the story (data/scenes.js STORY_WORLD): run every frame outside cutscenes and right after a map change.
 function storyWorld() { if(STORY.mode==='full'&&typeof STORY_WORLD!=='undefined') for(const f of STORY_WORLD) f(); }
 
@@ -786,6 +807,7 @@ endIntro=function() {
   // Map monsters a scene walked out go back to their spots (so they never block a path afterwards).
   for(const n of intro.held||[]) { n.held=false; n.path=[]; n.move=null; n.idle=1+Math.random(); if(n.monster&&!n.scripted&&n.heldFrom&&!n.sunk) { n.x=n.heldFrom.x; n.y=n.heldFrom.y; } }
   intro.held=[];
+  for(const n of currentMap.npcs) if(n.arriveFace) n.arriveFace=null;
   LE_endIntro_story();
   placeFollowers();
 };

diff --git a/engine/battle-draw.js b/engine/battle-draw.js
@@ -615,7 +615,7 @@ function choosePath(n) {
 function updateNPCs(dt) {
   for(const n of currentMap.npcs.slice()) {   // a copy: a beaten monster removes itself from the list mid-loop (monsterFall)
     if(n.held) continue;   // moved by a cutscene (engine/story.js); the scene steps it
-    if(n.still) { if(!(dialog.active&&dialog.npc===n)) n.facing=n.still; continue; }   // posed NPC (data/scenes.js ch9Pose): never walks, turns back to its pose after a chat
+    if(n.still) { if(!(dialog.active&&dialog.npc===n)) n.facing=n.arriveFace||n.still; continue; }   // posed NPC (data/scenes.js ch9Pose): never walks, turns back to its pose after a chat
     if(n.move&&!advanceMove(n,dt)) continue;
     if(n.monster) { b7MonsterTick(n,dt); continue; }   // wandering monsters (engine/feel.js)
 

diff --git a/engine/main.js b/engine/main.js
@@ -103,7 +103,7 @@ startSplash();
   const sp=document.getElementById('splash'); if(!sp) return;
   const d=document.createElement('div');
   // On an iPhone Duo the stamp also shows the page size and pose the game measured, so Tom can read them back (docs/DUO.md).
-  d.textContent='build heads5';
+  d.textContent='build facing2';
   const build=d.textContent,stamp=()=>{ d.textContent=build+(typeof duoMode!=='undefined'&&duoMode.device?' '+window.innerWidth+'x'+window.innerHeight+(duoMode.open?' duo open':' duo folded'):''); };
   stamp(); window.addEventListener('resize',()=>setTimeout(stamp,60));
   d.style.cssText='position:absolute;left:8px;bottom:4px;font:10px monospace;color:#fff;opacity:.45;pointer-events:none;z-index:50';

diff --git a/data/scenes.js b/data/scenes.js
@@ -3323,6 +3323,8 @@ SCENES.ch9AfterBoss=()=>[
 SCENES.ch9End=[
   {flag:'ch9-done',value:'pending'},
   {call:()=>ch9GirlsMove()},
+  // Tom and Boppy step into the room, off the gate lane and clear of the newel post (facing2, Tom 2026-11-12).
+  {all:[{walk:'tom',to:routeTo('tom',8,11),speed:.28},{walk:'boppy',to:routeTo('boppy',6,10),speed:.28}]},
   {talk:'Grace',lines:['TATA! The MOON came back! We saw it from the window! Aunt Ellie said it was probably you.']},
   {talk:'Rose',lines:['I won at cards. I cheated. Aunt Ellie said I\'m a natural.']},
   {talk:'Aunt Ellie',lines:['She is. It\'s frightening. Well? Was there a ball?']},

diff --git a/tools/make_grands_fg.py b/tools/make_grands_fg.py
@@ -2,7 +2,8 @@
 # engine/plate.js (PLATE_BEHIND.grands, fg:true) draws it over anyone standing behind them:
 #   - the cookie counter top with the pie, cake dome and muffins (the cook's aisle, row 7, x2 to x5, is hidden under it),
 #   - the plaid sofa with its pillows and arms (the aisle behind it, row 5, x6 to x10),
-#   - the two ivy plants on the half-wall (Tom walks row 10 behind them).
+#   - the two ivy plants on the half-wall (Tom walks row 10 behind them),
+#   - the two newel posts at the gate.
 # Usage: python3 tools/make_grands_fg.py   (re-run after art/grands.webp changes; preview in tools/shots/grands-fg.png)
 import os
 import cv2, numpy as np
@@ -19,6 +20,9 @@ MUFFINS=[(312,575),(330,558),(380,556),(400,562),(406,585),(396,612),(360,622),(
 SOFA=[(484,525),(483,460),(485,430),(492,405),(507,393),(522,385),(535,376),(552,380),(555,375),(570,362),(595,364),(602,380),(620,389),(760,389),
       (775,380),(790,366),(825,362),(847,369),(860,371),(877,372),(886,382),(889,410),(889,510),(886,527),(860,532),(857,547),(842,547),(842,535),
       (520,535),(520,547),(502,547),(502,535)]
+# Gate newel posts (facing2, Tom 2026-11-12: "the post should be a cutout"): finial, cap, shaft with the gate edge, base.
+POSTS=[[(492,860),(520,860),(524,890),(536,890),(540,935),(540,1063),(533,1065),(533,1122),(473,1122),(473,1048),(480,1045),(480,930),(475,928),(475,890),(488,890)],
+       [(808,860),(837,860),(841,888),(853,888),(853,930),(848,932),(848,1048),(854,1048),(854,1122),(792,1122),(792,1063),(787,1060),(787,888),(804,888)]]
 # Ivy plants: green leaves picked by colour inside a box, plus the pot (olive) as a polygon.
 IVIES=[((350,826,495,978),[(408,916),(458,916),(462,935),(440,946),(415,945),(405,932)]),
        ((845,830,995,1004),[(885,916),(930,916),(934,935),(915,946),(892,945),(882,932)])]
@@ -26,7 +30,7 @@ src=os.path.join(ROOT,'art/grands.webp')
 rgb=np.array(Image.open(src).convert('RGB'))
 im=cv2.cvtColor(rgb,cv2.COLOR_RGB2BGR)
 H,W=im.shape[:2]; alpha=Image.new('L',(W,H),0); d=ImageDraw.Draw(alpha)
-for p in (SLAB,PIE,DOME,MUFFINS,SOFA): d.polygon(p,fill=255)
+for p in (SLAB,PIE,DOME,MUFFINS,SOFA,*POSTS): d.polygon(p,fill=255)
 a=np.array(alpha)
 hsv=cv2.cvtColor(im,cv2.COLOR_BGR2HSV)
 for (x0,y0,x1,y1),pot in IVIES:
@@ -42,5 +46,5 @@ a=cv2.GaussianBlur(a,(3,3),0)
 rgba=cv2.cvtColor(im,cv2.COLOR_BGR2RGBA); rgba[...,3]=a
 out=Image.fromarray(rgba); out.save(os.path.join(ROOT,'art/grands-fg.webp'),quality=88,method=6)
 prev=Image.open(src).convert('RGB'); bgc=Image.new('RGB',prev.size,(255,0,255)); bgc.paste(out.convert('RGB'),mask=out.split()[3])
-bgc.crop((60,340,1010,1010)).save(os.path.join(ROOT,'tools/shots/grands-fg.png'))
+bgc.crop((60,340,1010,1140)).save(os.path.join(ROOT,'tools/shots/grands-fg.png'))
 print('grands-fg ok',int((a>128).sum()),'px')

diff --git a/docs/CHANGES.md b/docs/CHANGES.md
@@ -1,3 +1,8 @@
+## 2026-11-12 (facing2): people already face Tom when he walks into a scene; ch9 end staging; Rivituso gate posts are cutouts (tag facing2)
+- Tom 07:58: on entering the house at the end of chapter 9, Grace, Aunt Ellie and Rose still faced the TV until the first line. They should face front as soon as he enters, in every similar case.
+- Fix (engine/story.js `storyArriveFace`, run after every `switchMap`): when the map change lands Tom where a scene trigger will fire, everyone who talks in that scene turns toward him before the room fades in. Posed (`still`) people keep that facing through `n.arriveFace` (read by updateNPCs in engine/battle-draw.js) until the scene ends (`endIntro` clears it); wanderers stop and wait.
+- Tom 07:59: Tom and Boppy one step further in; Boppy overlapped the newel post. ch9End now walks Tom to (8,11) and Boppy to (6,10) before the first line. Both gate posts are in art/grands-fg.webp (`POSTS` in tools/make_grands_fg.py) with two PLATE_BEHIND.grands zones, so anyone behind a post is covered by it.
+- Tested: entered the house from Rivituso Row with the chapter 9 end flags set, portrait and landscape: girls and Ellie face down during the fade-in, then Tom and Boppy step in; smoke ok.
 ## 2026-11-12 (voicefoot1): Voice Library on a computer: Export block no longer drawn over the filters (voices.html only, no tag)
 - heads5 (2026-11-12): Tom's saved head size applied: Justin 1.25 to 1.18 (body keeps 6'4"). Walk art, hires data and talk face rebaked, TALK_V heads5. Welcome layout json unchanged (no new save). smoke FAILS [].
 - Tom: on desktop landscape the left filters and the export functions overlap. Cause (fact): at 860 px and wider `.side` (key box and filters) is sticky and `.foot` (how-to, Export phone clips, Remove all phone clips) sat in the same grid column at the bottom, so at the end of the list the two drew over each other.
